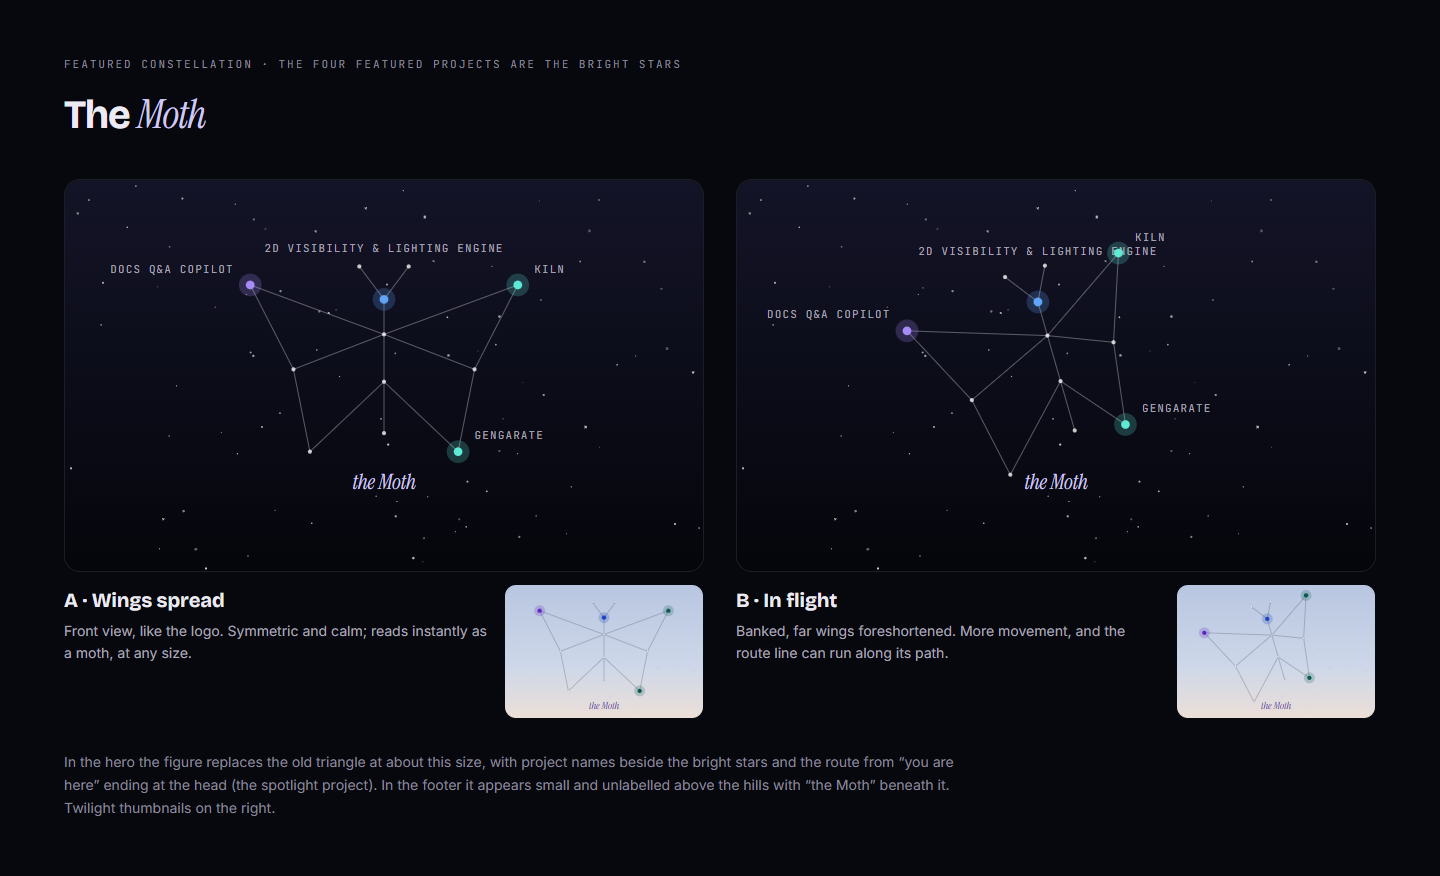
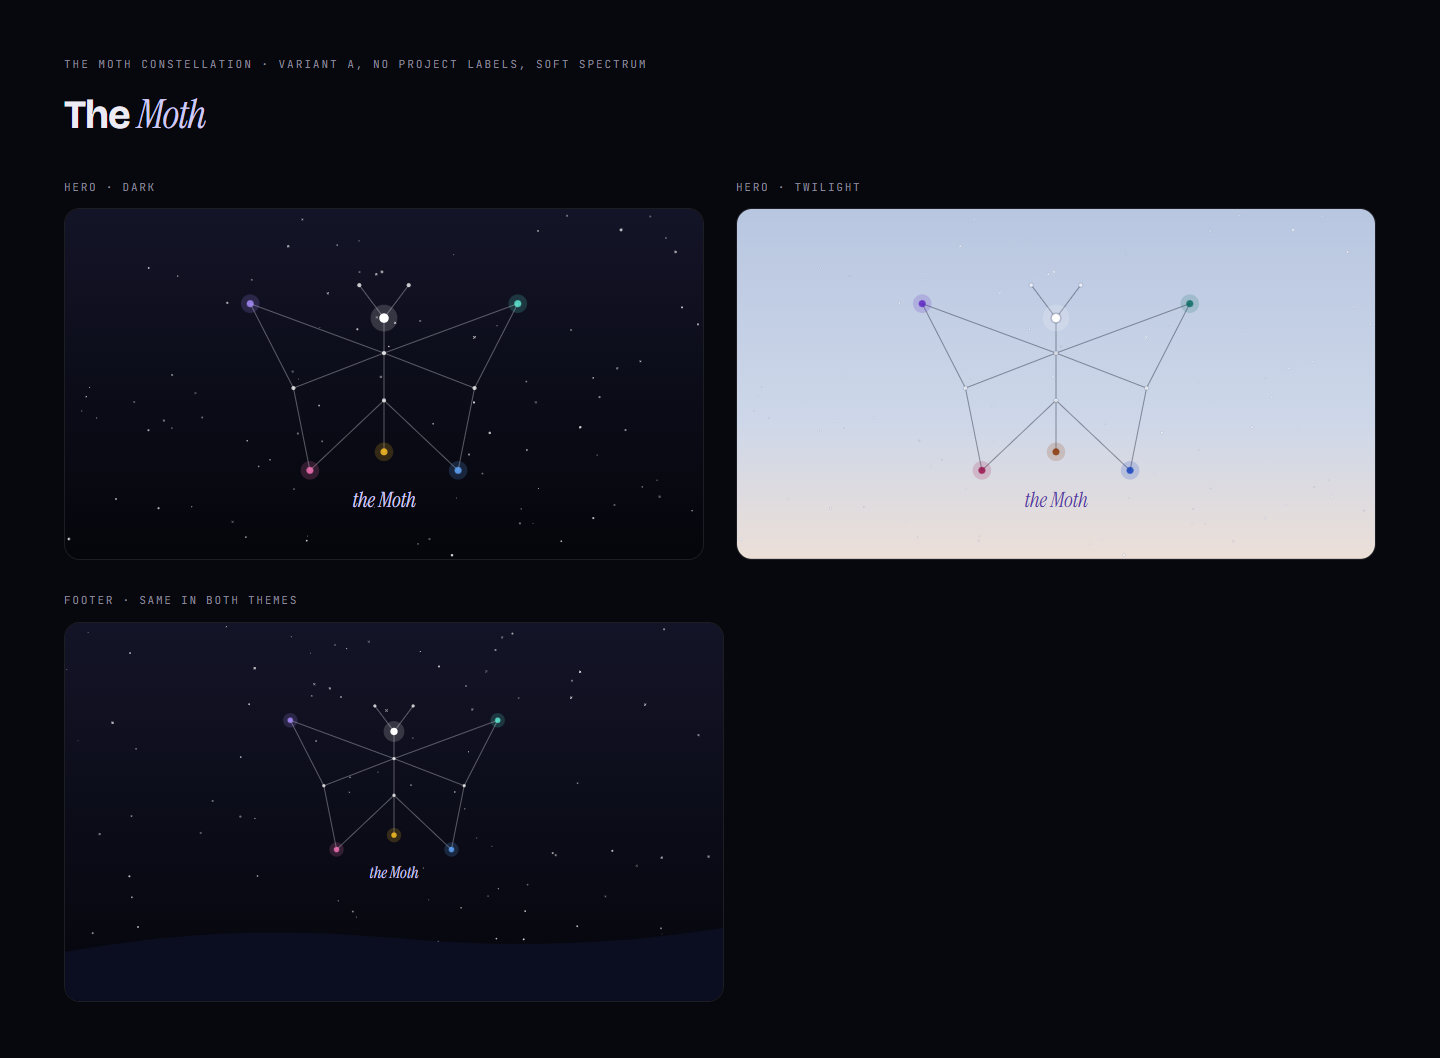
Revise the Moth constellation and lengthen the intro storyboard

diff --git a/src/components/lab/MothSky.tsx b/src/components/lab/MothSky.tsx
@@ -2,7 +2,6 @@
 
 // The Moth constellation (featured projects drawn as a moth) and the intro storyboard. Lab reference only.
 
-import { projects } from '@/data/projects';
 import { mulberry32 } from '@/lib/kit';
 import { MothCharacter } from '@/components/ui/Moth';
 import { dark, twilight, type Tokens } from './themeTokens';
@@ -15,22 +14,22 @@ const serif = 'var(--font-instrument), serif';
 
 /* ---------------- the figure ---------------- */
 type P = [number, number];
-type Star = { id: string; p: P; slug?: string };
+type Star = { id: string; p: P };
 
-// Front view, wings spread, in a 400 × 260 box. Featured projects are the bright stars.
+// Front view, wings spread, in a 400 × 260 box (variant A, approved). No project meaning.
 const SPREAD: Star[] = [
-  { id: 'head', p: [200, 66], slug: '2d-visibility-engine' },
+  { id: 'head', p: [200, 66] },
   { id: 'antL', p: [176, 34] },
   { id: 'antR', p: [224, 34] },
   { id: 'thorax', p: [200, 100] },
   { id: 'mid', p: [200, 146] },
   { id: 'tail', p: [200, 196] },
-  { id: 'foreL', p: [70, 52], slug: 'docs-qa-copilot' },
+  { id: 'foreL', p: [70, 52] },
   { id: 'foreLlow', p: [112, 134] },
-  { id: 'foreR', p: [330, 52], slug: 'kiln' },
+  { id: 'foreR', p: [330, 52] },
   { id: 'foreRlow', p: [288, 134] },
   { id: 'hindL', p: [128, 214] },
-  { id: 'hindR', p: [272, 214], slug: 'gengarate' },
+  { id: 'hindR', p: [272, 214] },
 ];
 const LINES: [string, string][] = [
   ['antL', 'head'],
@@ -50,56 +49,36 @@ const LINES: [string, string][] = [
   ['hindR', 'mid'],
 ];
 
-// In flight: the far (right) wings foreshortened and the whole figure banked.
-function inFlight(stars: Star[]): Star[] {
-  const a = (-16 * Math.PI) / 180;
-  return stars.map((s) => {
-    let [x, y] = s.p;
-    if (x > 200) x = 200 + (x - 200) * 0.68;
-    if (s.id.startsWith('fore') || s.id.startsWith('hind')) y += s.id.endsWith('R') || s.id.endsWith('Rlow') ? -10 : 6;
-    const dx = x - 200;
-    const dy = y - 130;
-    return { ...s, p: [r1(200 + dx * Math.cos(a) - dy * Math.sin(a)), r1(130 + dx * Math.sin(a) + dy * Math.cos(a))] as P };
-  });
-}
+const SOFT: Record<string, number> = { foreL: 2, foreR: 0, hindL: 3, hindR: 1, tail: 4 };
 
-export const VARIANTS = [
-  { key: 'spread', name: 'A · Wings spread', note: 'Front view, like the logo. Symmetric and calm; reads instantly as a moth, at any size.', stars: SPREAD },
-  { key: 'flight', name: 'B · In flight', note: 'Banked, far wings foreshortened. More movement, and the route line can run along its path.', stars: inFlight(SPREAD) },
-];
-
-const kindOf = (t: Tokens, slug?: string) => {
-  const p = slug ? projects.find((x) => x.slug === slug) : undefined;
-  return p ? t.kind[p.kind] : undefined;
-};
-const titleOf = (slug: string) => projects.find((x) => x.slug === slug)?.title ?? slug;
-
-export function MothFigure({ t, stars, labels = true, scale = 1, x = 0, y = 0, draw = 1, name = true }: { t: Tokens; stars: Star[]; labels?: boolean; scale?: number; x?: number; y?: number; draw?: number; name?: boolean }) {
+/** The Moth constellation: soft spectrum stars with no meaning attached, the head the brightest. */
+export function MothFigure({ t, stars, scale = 1, x = 0, y = 0, name = true }: { t: Tokens; stars: Star[]; scale?: number; x?: number; y?: number; name?: boolean }) {
   const at = (id: string) => stars.find((s) => s.id === id)!.p;
-  const shown = Math.round(LINES.length * draw);
   return (
     <g transform={`translate(${x} ${y}) scale(${scale})`}>
-      {LINES.slice(0, shown).map(([a, b]) => {
+      {LINES.map(([a, b]) => {
         const [x1, y1] = at(a);
         const [x2, y2] = at(b);
         return <line key={a + b} x1={x1} y1={y1} x2={x2} y2={y2} stroke={t.constellation} strokeWidth={1 / scale} />;
       })}
       {stars.map((s) => {
-        const c = kindOf(t, s.slug);
         const [sx, sy] = s.p;
-        return c ? (
-          <g key={s.id}>
-            <circle cx={sx} cy={sy} r={11} fill={c} opacity=".22" />
-            <circle cx={sx} cy={sy} r={4.2} fill={c} />
-            {labels && (
-              <text x={s.id === 'head' ? sx : sx + (sx < 200 ? -16 : 16)} y={s.id === 'head' ? sy - 46 : sy - 12} textAnchor={s.id === 'head' ? 'middle' : sx < 200 ? 'end' : 'start'} fontFamily={mono} fontSize={10.5} letterSpacing="1.2" fill={t.ink2}>
-                {titleOf(s.slug!).toUpperCase()}
-              </text>
-            )}
-          </g>
-        ) : (
-          <circle key={s.id} cx={sx} cy={sy} r={2} fill={t.star} opacity=".75" stroke={t.starHalo} />
-        );
+        if (s.id === 'head')
+          return (
+            <g key={s.id}>
+              <circle cx={sx} cy={sy} r={13} fill={t.star} opacity=".16" />
+              <circle cx={sx} cy={sy} r={4.6} fill={t.star} stroke={t.starHalo} strokeWidth="1.5" />
+            </g>
+          );
+        const k = SOFT[s.id];
+        if (k !== undefined)
+          return (
+            <g key={s.id}>
+              <circle cx={sx} cy={sy} r={9} fill={t.spectrum[k]} opacity=".18" />
+              <circle cx={sx} cy={sy} r={3.4} fill={t.spectrum[k]} opacity=".85" />
+            </g>
+          );
+        return <circle key={s.id} cx={sx} cy={sy} r={2} fill={t.star} opacity=".75" stroke={t.starHalo} />;
       })}
       {name && (
         <text x={200} y={250} textAnchor="middle" fontFamily={serif} fontStyle="italic" fontSize={20} fill={t.accentSerif}>
@@ -134,42 +113,36 @@ export function ConstellationSheet() {
   return (
     <section data-sheet="moth-constellation" style={{ width: 1440, background: '#07080d', color: dark.ink }} className="px-16 py-14">
       <p className="font-mono text-[11px] uppercase tracking-[.18em]" style={{ color: dark.ink3 }}>
-        Featured constellation · the four featured projects are the bright stars
+        The Moth constellation · variant A, no project labels, soft spectrum
       </p>
       <h2 className="mt-2 font-display text-[40px] font-bold tracking-[-0.03em]">
         The <span className="font-serif font-normal italic" style={{ color: dark.accentSerif }}>Moth</span>
       </h2>
       <div className="mt-8 grid grid-cols-2 gap-8">
-        {VARIANTS.map((v) => (
-          <div key={v.key}>
+        {[dark, twilight].map((t) => (
+          <div key={t.name}>
+            <p className="mb-3 font-mono text-[11px] uppercase tracking-[.16em]" style={{ color: dark.ink3 }}>
+              Hero · {t.name}
+            </p>
             <div className="overflow-hidden rounded-2xl border" style={{ borderColor: dark.cardBorder }}>
-              <svg viewBox="0 0 620 380" width="100%" style={{ display: 'block' }} aria-hidden>
-                <SkyRect t={dark} w={620} h={380} seed={v.key.length * 7} />
-                <MothFigure t={dark} stars={v.stars} x={110} y={50} />
+              <svg viewBox="0 0 620 340" width="100%" style={{ display: 'block' }} aria-hidden>
+                <SkyRect t={t} w={620} h={340} seed={9} />
+                <MothFigure t={t} stars={SPREAD} x={110} y={40} />
               </svg>
-            </div>
-            <div className="mt-3 grid grid-cols-[1fr_200px] gap-4">
-              <div>
-                <p className="font-display text-[20px] font-bold">{v.name}</p>
-                <p className="mt-1 text-[14px] leading-relaxed" style={{ color: dark.ink2 }}>
-                  {v.note}
-                </p>
-              </div>
-              <div className="overflow-hidden rounded-xl border" style={{ borderColor: twilight.cardBorder }}>
-                <svg viewBox="0 0 400 270" width="100%" style={{ display: 'block' }} aria-hidden>
-                  <SkyRect t={twilight} w={400} h={270} seed={3} n={40} />
-                  <MothFigure t={twilight} stars={v.stars} labels={false} />
-                </svg>
-              </div>
             </div>
           </div>
         ))}
       </div>
-      <p className="mt-8 max-w-[900px] text-[14px] leading-relaxed" style={{ color: dark.ink3 }}>
-        In the hero the figure replaces the old triangle at about this size, with project names beside the bright stars and the route from
-        &ldquo;you are here&rdquo; ending at the head (the spotlight project). In the footer it appears small and unlabelled above the hills with
-        &ldquo;the Moth&rdquo; beneath it. Twilight thumbnails on the right.
+      <p className="mb-3 mt-8 font-mono text-[11px] uppercase tracking-[.16em]" style={{ color: dark.ink3 }}>
+        Footer · same in both themes
       </p>
+      <div className="w-[660px] overflow-hidden rounded-2xl border" style={{ borderColor: dark.cardBorder }}>
+        <svg viewBox="0 0 660 380" width="100%" style={{ display: 'block' }} aria-hidden>
+          <SkyRect t={dark} w={660} h={380} seed={21} />
+          <MothFigure t={dark} stars={SPREAD} scale={0.8} x={170} y={56} />
+          <path d="M0 330 Q 160 300 330 316 T 660 306 V380 H0Z" fill="#0b0e20" />
+        </svg>
+      </div>
     </section>
   );
 }
@@ -195,7 +168,7 @@ function Frame({ i, time, title, children, note }: { i: number; time: string; ti
         <svg viewBox={`0 0 ${FW} ${FH}`} width="100%" style={{ display: 'block' }} aria-hidden>
           <SkyRect t={dark} w={FW} h={FH} seed={40 + i} n={i === 1 ? 30 : 70} />
           {children}
-          <g opacity={i < 6 ? 1 : 0}>
+          <g opacity={i < 9 ? 1 : 0}>
             <rect x={FW - 86} y={FH - 32} width="74" height="22" rx="11" fill="rgba(17,18,32,.8)" stroke="rgba(255,255,255,.16)" />
             <text x={FW - 49} y={FH - 17} textAnchor="middle" fontSize="10" fontFamily="var(--font-inter), sans-serif" fill={dark.ink2}>
               Skip intro
@@ -216,7 +189,7 @@ function Frame({ i, time, title, children, note }: { i: number; time: string; ti
   );
 }
 
-function Chrysalis({ draw = 1, prism = false, open = 0 }: { draw?: number; prism?: boolean; open?: number }) {
+function Chrysalis({ draw = 1, prism = false, open = 0, solid = false }: { draw?: number; prism?: boolean; open?: number; solid?: boolean }) {
   const pts = CHRYS;
   const n = Math.round(pts.length * draw);
   const c: P = [210, 122];
@@ -232,7 +205,7 @@ function Chrysalis({ draw = 1, prism = false, open = 0 }: { draw?: number; prism
         <g>
           <circle cx={c[0]} cy={c[1]} r="70" fill={LAV} opacity=".08" />
           {facets.map((f, k) => (
-            <path key={k} d={f.d} fill={f.col} opacity=".62" stroke="#fff" strokeOpacity=".5" strokeWidth=".8" transform={open ? `translate(${f.left ? -open : open} ${open * 0.3}) rotate(${f.left ? -open : open} ${c[0]} 170)` : undefined} />
+            <path key={k} d={f.d} fill={f.col} opacity={solid ? 0.92 : 0.62} stroke="#fff" strokeOpacity=".5" strokeWidth=".8" transform={open ? `translate(${f.left ? -open : open} ${open * 0.3}) rotate(${f.left ? -open : open} ${c[0]} 170)` : undefined} />
           ))}
         </g>
       )}
@@ -279,32 +252,47 @@ export function IntroSheet({ sigFamily }: { sigFamily: string }) {
   return (
     <section data-sheet="intro-storyboard" style={{ width: 1440, background: '#07080d', color: dark.ink }} className="px-16 py-14">
       <p className="font-mono text-[11px] uppercase tracking-[.18em]" style={{ color: dark.ink3 }}>
-        Intro · about 2.4 seconds · first visit only
+        Intro · about 4 seconds on one eased timeline · first visit only
       </p>
       <h2 className="mt-2 font-display text-[40px] font-bold tracking-[-0.03em]">
         The moth <span className="font-serif font-normal italic" style={{ color: dark.accentSerif }}>emerges</span>
       </h2>
       <div className="mt-8 grid grid-cols-3 gap-x-8 gap-y-10">
-        <Frame i={1} time="0.0–0.3 s" title="Night" note="The page opens on the dark sky. A few stars fade in; everything else is hidden.">
+        <Frame i={1} time="0.0–0.4 s" title="Night" note="The page opens on the dark sky. A few stars fade in; everything else is hidden.">
           <circle cx="210" cy="26" r="2.6" fill="#fff" opacity=".6" />
         </Frame>
-        <Frame i={2} time="0.3–0.8 s" title="A chrysalis is charted" note="Stars appear one by one and a constellation draws the outline of a chrysalis hanging from a single star.">
+        <Frame i={2} time="0.4–1.0 s" title="A chrysalis is charted" note="Stars appear one by one from a single anchor star; a constellation line draws through them into a hanging chrysalis.">
           <Chrysalis draw={0.62} />
         </Frame>
-        <Frame i={3} time="0.8–1.2 s" title="It turns prismatic" note="The outline fills with glassy facets in the spectrum colours, glowing softly: the prism, now a chrysalis.">
+        <Frame i={3} time="1.0–1.5 s" title="It turns prismatic" note="Glassy facets fill the outline in the spectrum colours, glowing softly and breathing once: the prism, now a chrysalis.">
           <Chrysalis prism />
         </Frame>
-        <Frame i={4} time="1.2–1.5 s" title="It splits open" note="The facets part; light breaks out as spectrum rays and the moth climbs out, wings still folded.">
-          <Rays k={0.7} />
-          <Chrysalis prism open={10} />
-          <Moth pose="sit" w={72} cx={210} base={162} />
+        <Frame i={4} time="1.5–1.9 s" title="A seam of light" note="A thin bright seam opens down the middle and light leaks out of it; the chrysalis gives two small pulses, as if something stirs inside.">
+          <circle cx="210" cy="120" r="80" fill={LAV} opacity=".06" />
+          <Chrysalis prism />
+          <line x1="210" y1="70" x2="210" y2="166" stroke="#fff" strokeWidth="2.2" />
+          <line x1="210" y1="70" x2="210" y2="166" stroke={LAV} strokeWidth="7" opacity=".25" />
         </Frame>
-        <Frame i={5} time="1.5–1.9 s" title="Wings unfold" note="The moth opens its wings; the stars on them light up and the rays settle into the lines of the Moth constellation behind it.">
-          <MothFigure t={dark} stars={SPREAD} labels={false} name={false} scale={0.78} x={54} y={14} />
+        <Frame i={5} time="1.9–2.3 s" title="Head and antennae" note="The seam widens; the moth's head pushes out of the top and its antennae uncurl, slowly, one then the other.">
+          <Moth pose="sit" w={64} cx={210} base={100} />
+          <Chrysalis prism open={3} solid />
+        </Frame>
+        <Frame i={6} time="2.3–2.8 s" title="It pulls free" note="The two halves fall away and fade into drifting facets of light; the moth climbs out, wings still folded and crumpled.">
+          <Rays k={0.6} />
+          <Chrysalis prism open={14} />
+          <Moth pose="crouch" w={74} cx={210} base={164} />
+        </Frame>
+        <Frame i={7} time="2.8–3.3 s" title="Wings expand" note="The wings open gradually from the body outward, like drying: the wing stars light up one by one as they reach the air.">
+          <g transform="translate(210 0) scale(.58 1) translate(-210 0)">
+            <Moth pose="wave" w={130} cx={210} base={172} />
+          </g>
+        </Frame>
+        <Frame i={8} time="3.3–3.6 s" title="Fully open" note="Wings settle fully open over the Moth constellation, whose lines draw in behind them from the head outward.">
+          <MothFigure t={dark} stars={SPREAD} name={false} scale={0.78} x={54} y={14} />
           <circle cx="210" cy="120" r="64" fill={GOLD} opacity=".08" />
           <Moth pose="cheer" w={128} cx={210} base={168} />
         </Frame>
-        <Frame i={6} time="1.9–2.4 s" title="Light reaches the site" note="A ring of light spreads from the moth and the page lights up behind it: nav, then your name, then the rest. The moth flies up into the nav logo.">
+        <Frame i={9} time="3.6–4.2 s" title="Light reaches the site" note="One wingbeat sends a ring of light outward and the page lights up behind it: nav, then your name, then the rest. The moth flies up into the nav logo.">
           <circle cx="210" cy="118" r="150" fill="none" stroke={LAV} strokeOpacity=".35" strokeWidth="2" />
           <circle cx="210" cy="118" r="110" fill={LAV} opacity=".05" />
           <rect x="16" y="14" width={FW - 32} height="26" rx="8" fill="rgba(17,18,32,.7)" stroke="rgba(255,255,255,.1)" />
@@ -324,10 +312,11 @@ export function IntroSheet({ sigFamily }: { sigFamily: string }) {
           <Moth pose="jump" w={34} cx={36} base={36} />
         </Frame>
       </div>
-      <div className="mt-10 grid grid-cols-4 gap-6 text-[14px] leading-relaxed">
+      <div className="mt-10 grid grid-cols-5 gap-6 text-[14px] leading-relaxed">
         {(
           [
-            ['Skipping', 'A "Skip intro" button is visible from the first frame; any key, click, tap or scroll also jumps to the end state.'],
+            ['Smoothness', 'One continuous timeline with eased transitions: frames are key moments, not steps. Each beat overlaps the next by about 0.15 s.'],
+            ['Skipping', 'A "Skip intro" button is visible from the first frame; any key, click, tap or scroll jumps to the end state.'],
             ['When it plays', 'First visit of a session only (the existing intro flag). Never on later visits or on reloads in the same session.'],
             ['Reduced motion', 'No intro: the site loads already lit, the moth already in the nav logo.'],
             ['Twilight', 'Plays on the night sky; in the last frame the sky dissolves into the dusk-blue twilight sky as the site lights up.'],
